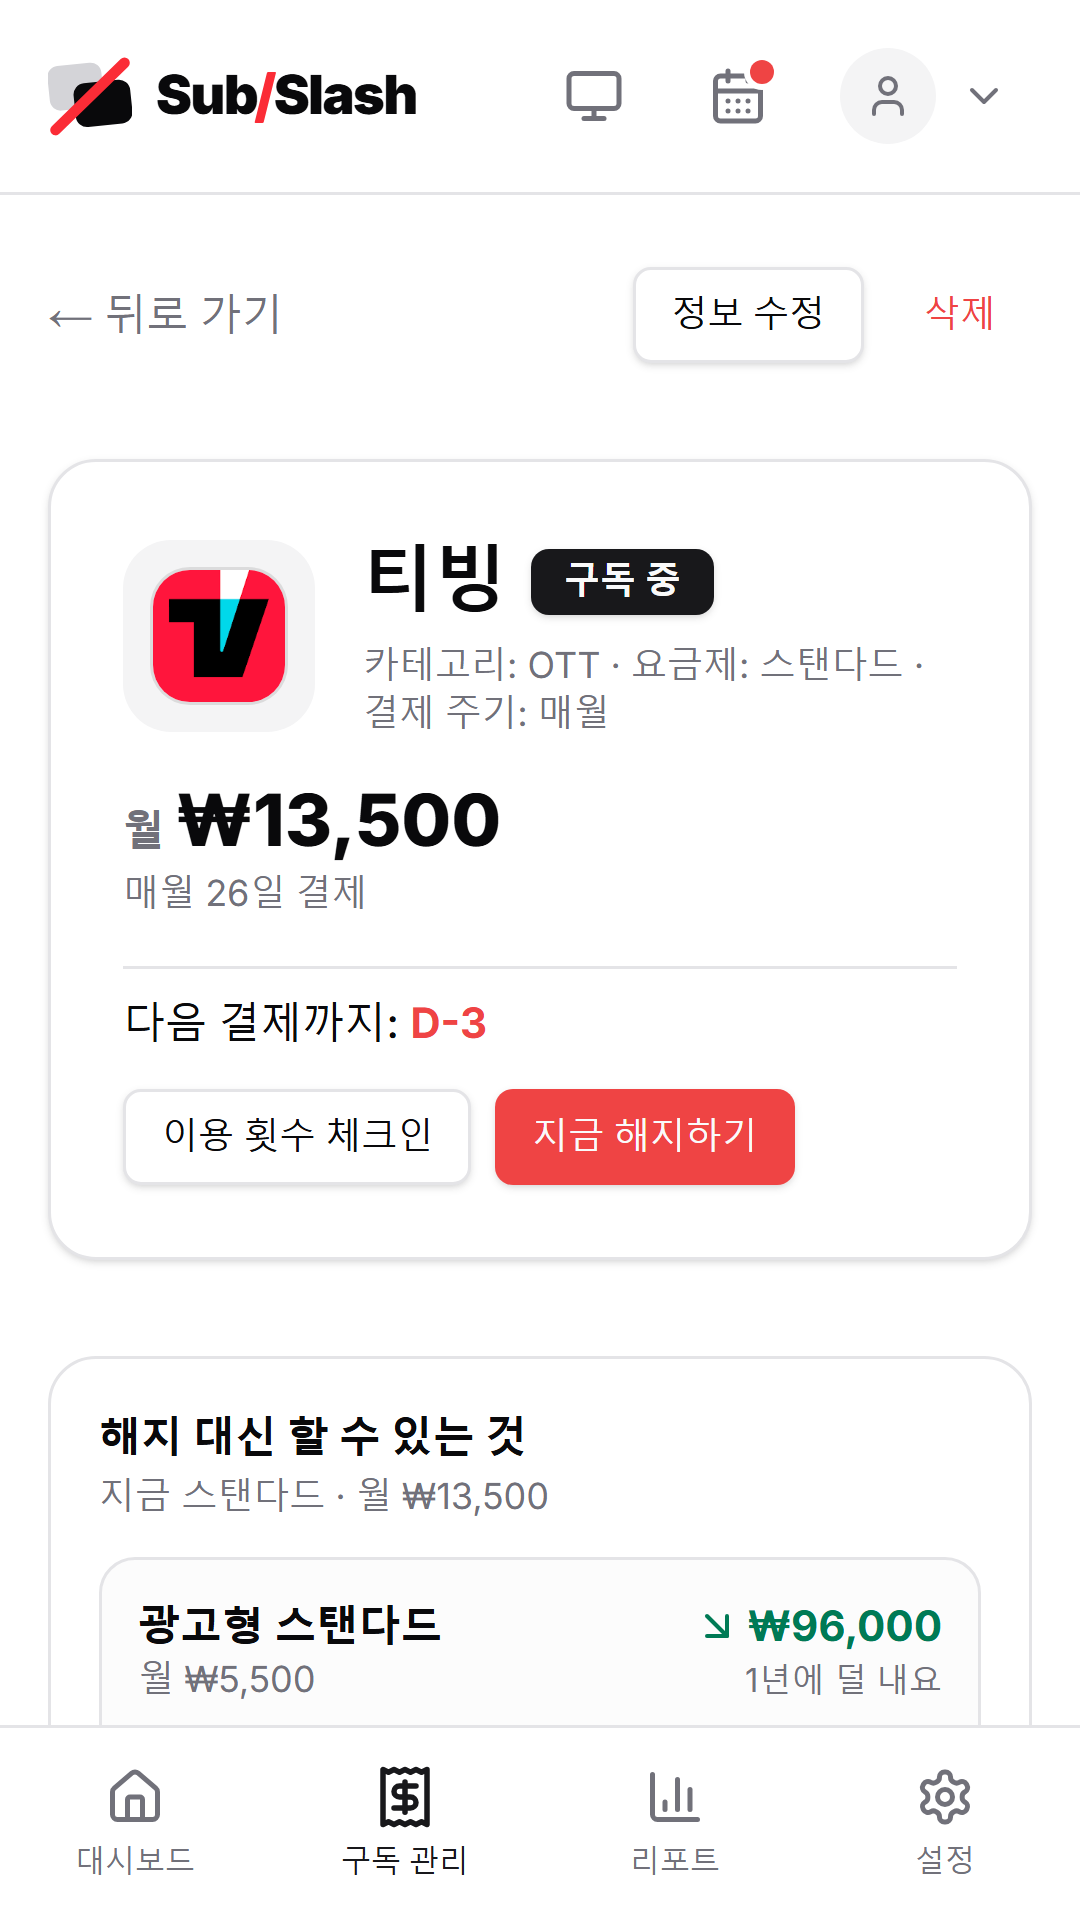
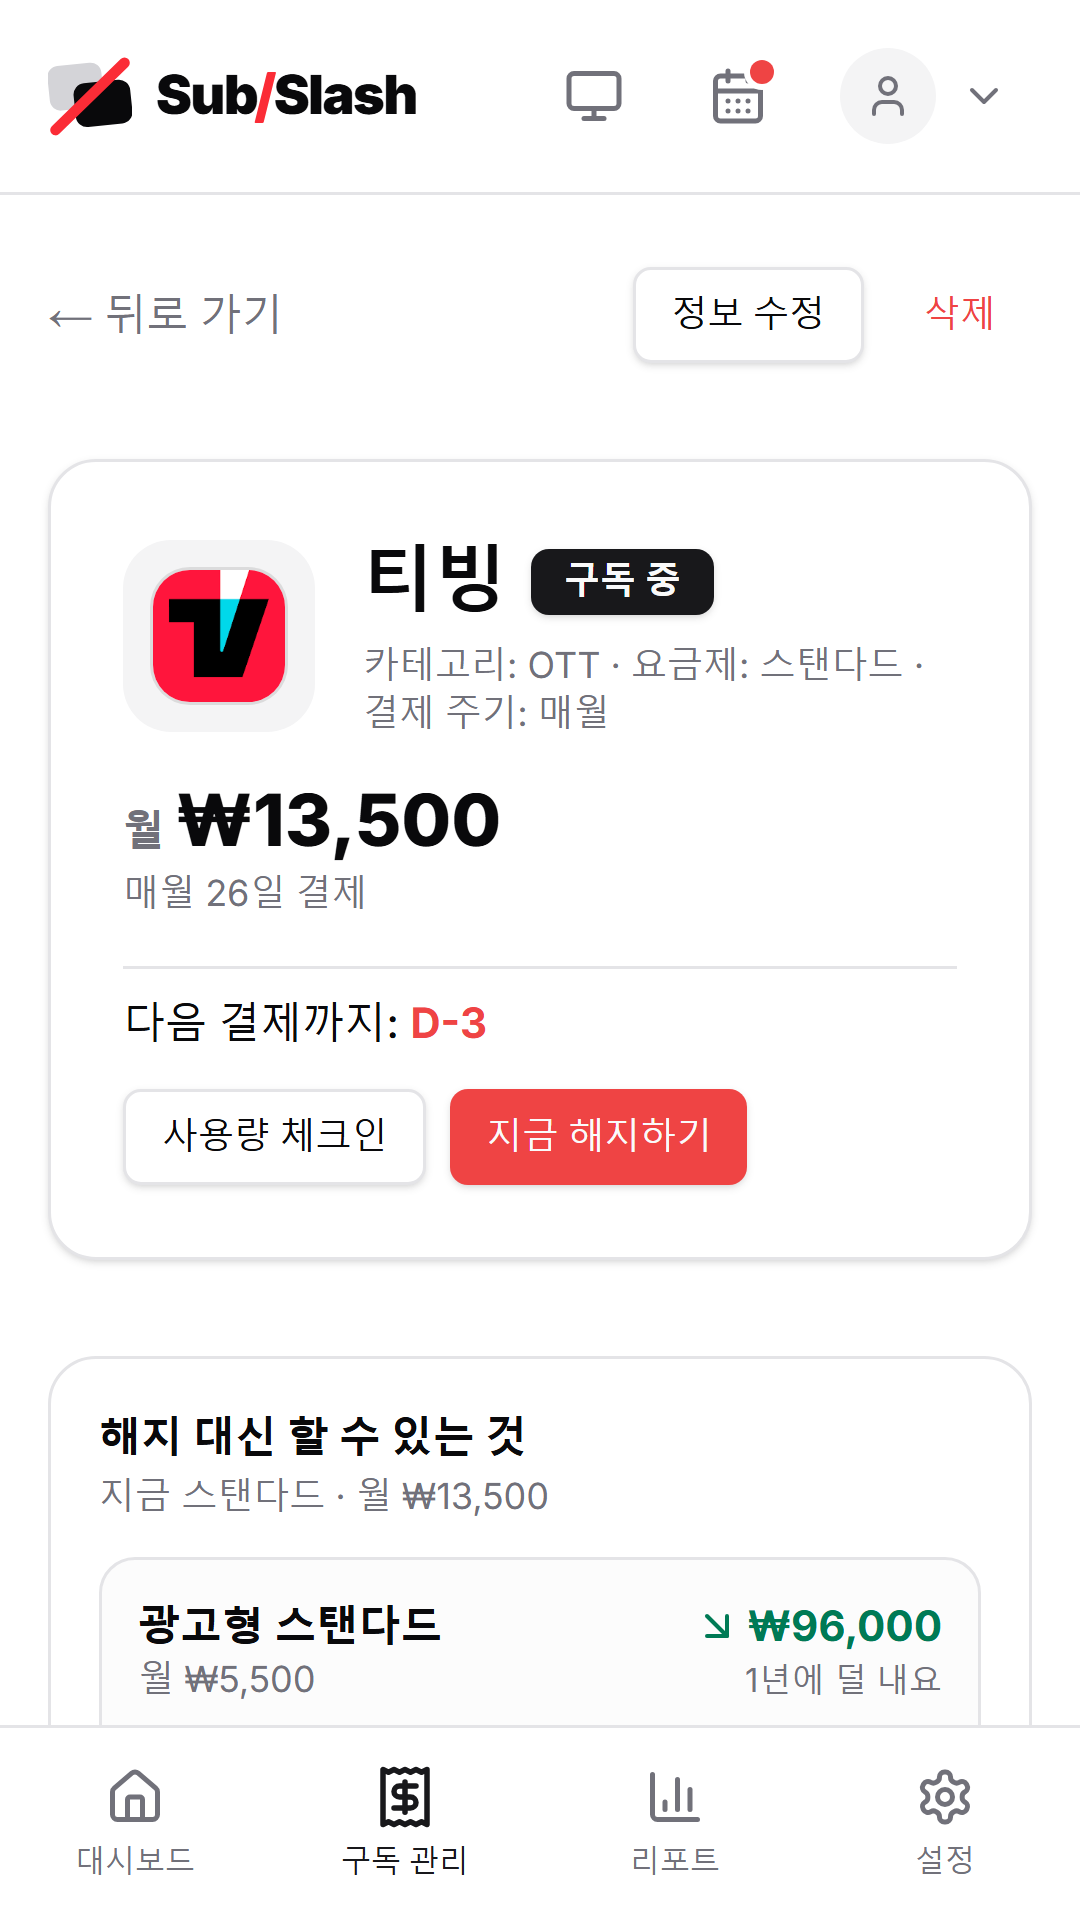
chore: 소개 화면 캡처를 시간 기준 화면으로 다시 찍고, 체크인 버튼을 '사용량 체크인'으로
- 소개 페이지·앱 소개의 앱 화면 캡처(public/landing, 한국어·영어)에 "0회 이용 · 1회당 ₩13,500"이 남아 있었다. OTT를
  본 시간으로 재는 화면으로 다시 찍는다("0시간 사용 · 안 썼어요").
- 캡처 스크립트가 앱 시작 인트로를 [class*="AppIntro"]로 기다렸는데, 배포 빌드의 CSS 모듈 클래스 이름에는 그 글자가
  없어 기다리지 않고 인트로(로고)를 찍었다. 인트로 덮개에 data-app-intro를 달아 그것이 사라질 때까지 기다리고,
  끝내 사라지지 않으면 찍지 않고 멈춘다.
- 구독 상세의 체크인 버튼이 "이용 횟수 체크인"이라 시간으로 재는 OTT·음악에 맞지 않았다. "사용량 체크인"으로 바꾸고
  같은 문제가 있던 중국어·일본어·베트남어도 고친다.

Changed region(s): [[0.2139, 0.5625, 0.7333, 0.625], [0.1528, 0.5625, 0.1833, 0.5938]]

diff --git a/apps/web/lib/i18n/messages/detail.ts b/apps/web/lib/i18n/messages/detail.ts
@@ -42,7 +42,7 @@ const ko0 = {
       `무료 체험 중 · ${endsAt} 종료(${dday}) · 그때까지 지출에서 빼요`,
     nextBilling: "다음 결제까지: ",
     monthUnset: "결제 월 미설정",
-    checkIn: "이용 횟수 체크인",
+    checkIn: "사용량 체크인",
     kill: "지금 해지하기",
     killedNote: "해지한 구독입니다.",
     revive: "다시 구독 중으로 변경",
@@ -393,7 +393,7 @@ const zh0: Widen<typeof ko0> = {
     trial: (endsAt, dday) => `免费试用中 · ${endsAt} 结束（${dday}）· 在此之前不计入支出`,
     nextBilling: "距下次扣款：",
     monthUnset: "未设置扣款月份",
-    checkIn: "签到使用次数",
+    checkIn: "签到使用情况",
     kill: "立即退订",
     killedNote: "这是已退订的订阅。",
     revive: "改回订阅中",
@@ -545,7 +545,7 @@ const ja0: Widen<typeof ko0> = {
     trial: (endsAt, dday) => `無料体験中 · ${endsAt} 終了（${dday}）· それまでは支出に含めません`,
     nextBilling: "次の支払いまで: ",
     monthUnset: "支払月が未設定",
-    checkIn: "利用回数をチェックイン",
+    checkIn: "利用状況をチェックイン",
     kill: "今すぐ解約",
     killedNote: "解約済みのサブスクです。",
     revive: "契約中に戻す",
@@ -707,7 +707,7 @@ const vi0: Widen<typeof ko0> = {
       `Đang dùng thử miễn phí · kết thúc ${endsAt} (${dday}) · đến lúc đó chưa tính vào chi tiêu`,
     nextBilling: "Đến lần thanh toán tiếp theo: ",
     monthUnset: "Chưa đặt tháng thanh toán",
-    checkIn: "Check-in số lần dùng",
+    checkIn: "Check-in mức sử dụng",
     kill: "Hủy ngay",
     killedNote: "Gói đăng ký này đã hủy.",
     revive: "Chuyển về đang đăng ký",

diff --git a/apps/web/scripts/landing-screens/capture.ts b/apps/web/scripts/landing-screens/capture.ts
@@ -193,10 +193,12 @@ async function main() {
     await page.waitForLoadState("networkidle").catch(() => undefined);
     // 페이지를 새로 열 때마다 앱 시작 인트로(AppIntro)가 잠깐 덮는다. 사라진 뒤에 찍는다.
     await page
-      .waitForFunction(() => !document.querySelector('[class*="AppIntro"]'), undefined, {
-        timeout: 10_000,
+      .waitForFunction(() => !document.querySelector("[data-app-intro]"), undefined, {
+        timeout: 15_000,
       })
-      .catch(() => undefined);
+      .catch(() => {
+        throw new Error(`${name}: 앱 시작 인트로가 사라지지 않았다`);
+      });
     await page.waitForTimeout(600);
     await page.screenshot({ path: join(OUT, `${name}.png`) });
     console.error(`찍음: ${OUT_DIR}/${name}.png`);

diff --git a/apps/web/__tests__/e2e/long-labels.spec.ts b/apps/web/__tests__/e2e/long-labels.spec.ts
@@ -101,7 +101,7 @@ test.describe("긴 이름이 칸 밖으로 넘치지 않는다 (E2E)", () => {
       await page.keyboard.press("Escape");
       await expect(page.getByRole("dialog")).toHaveCount(0);
 
-      await page.getByRole("button", { name: /이용 횟수 체크인/ }).click();
+      await page.getByRole("button", { name: /사용량 체크인/ }).click();
       await page.getByRole("button", { name: "가성비 분석 결과 보기" }).click();
       const result = page.getByRole("dialog");
       await expect(result.getByRole("button", { name: "닫기" }).first()).toBeVisible();

diff --git a/apps/web/__tests__/e2e/storage-quota-checkin.spec.ts b/apps/web/__tests__/e2e/storage-quota-checkin.spec.ts
@@ -49,7 +49,7 @@ async function fakeWebApp(context: BrowserContext, usage: number, limit: number)
 async function openCheckIn(page: import("@playwright/test").Page, state: string) {
   await page.addInitScript((value) => localStorage.setItem("subslash-storage", value), state);
   await page.goto("/subs/detail?id=gone");
-  await page.getByRole("button", { name: "이용 횟수 체크인" }).first().click({ timeout: 30_000 });
+  await page.getByRole("button", { name: "사용량 체크인" }).first().click({ timeout: 30_000 });
   return page.getByRole("dialog");
 }
 

diff --git a/apps/web/components/launch/AppIntro.tsx b/apps/web/components/launch/AppIntro.tsx
@@ -269,7 +269,8 @@ export function AppIntro({
   };
 
   return (
-    <div className={styles.overlay} ref={overlayRef} onClick={handleTap}>
+    // 소개 화면 캡처(scripts/landing-screens)가 이 덮개가 사라질 때까지 기다린다 — CSS 모듈 클래스 이름은 빌드마다 바뀐다.
+    <div className={styles.overlay} ref={overlayRef} onClick={handleTap} data-app-intro="">
       <div className={styles.intro} ref={introRef}>
         <div className={styles.stage} ref={stageRef}>
           <div className={styles.layer} ref={cardsRef}>
